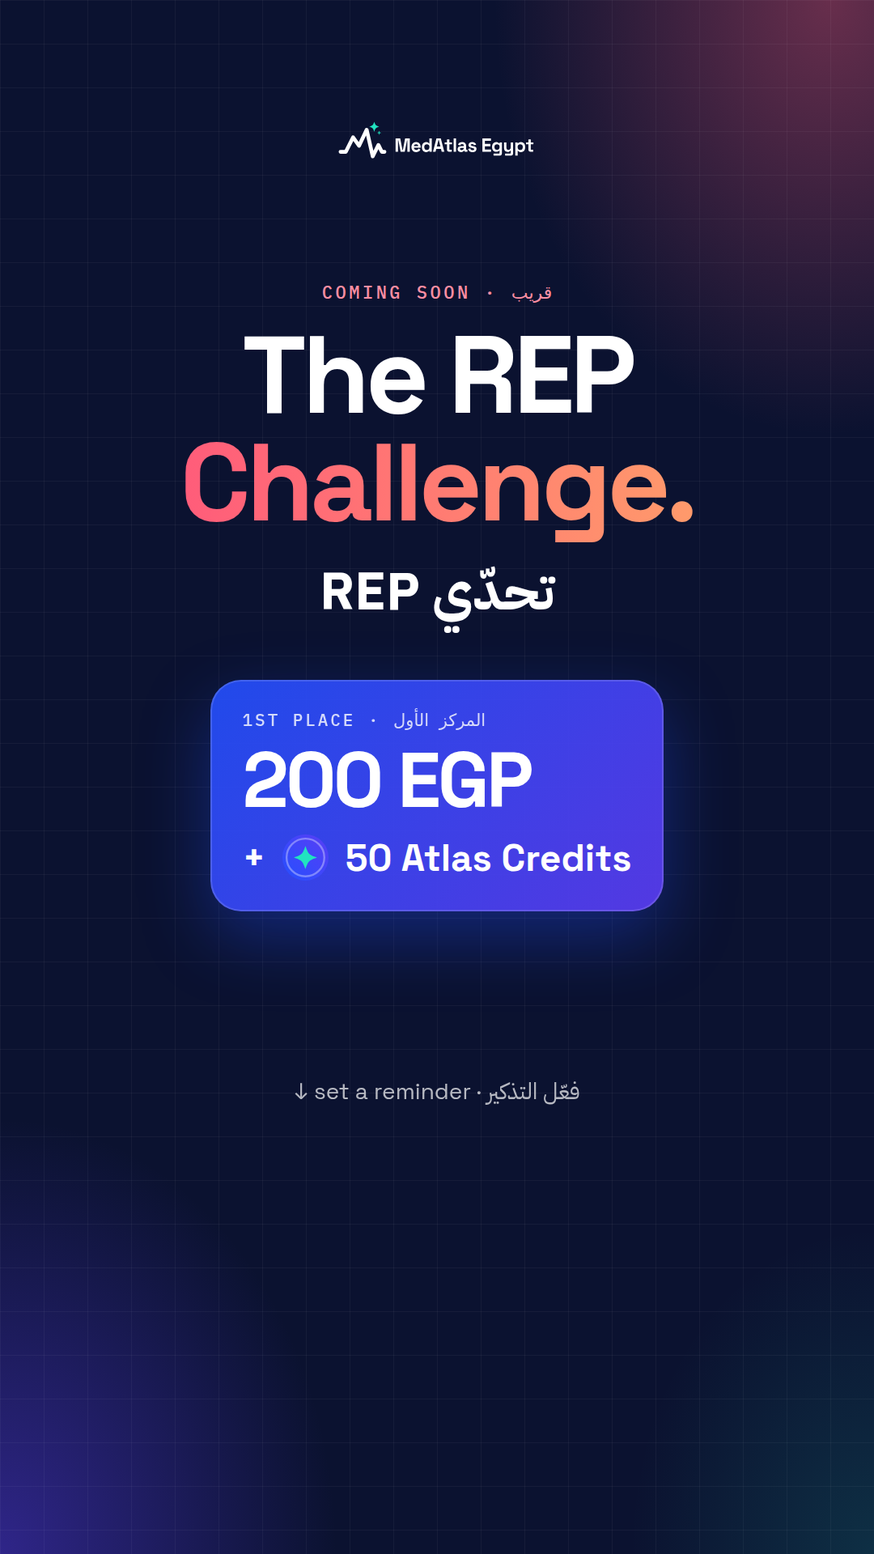
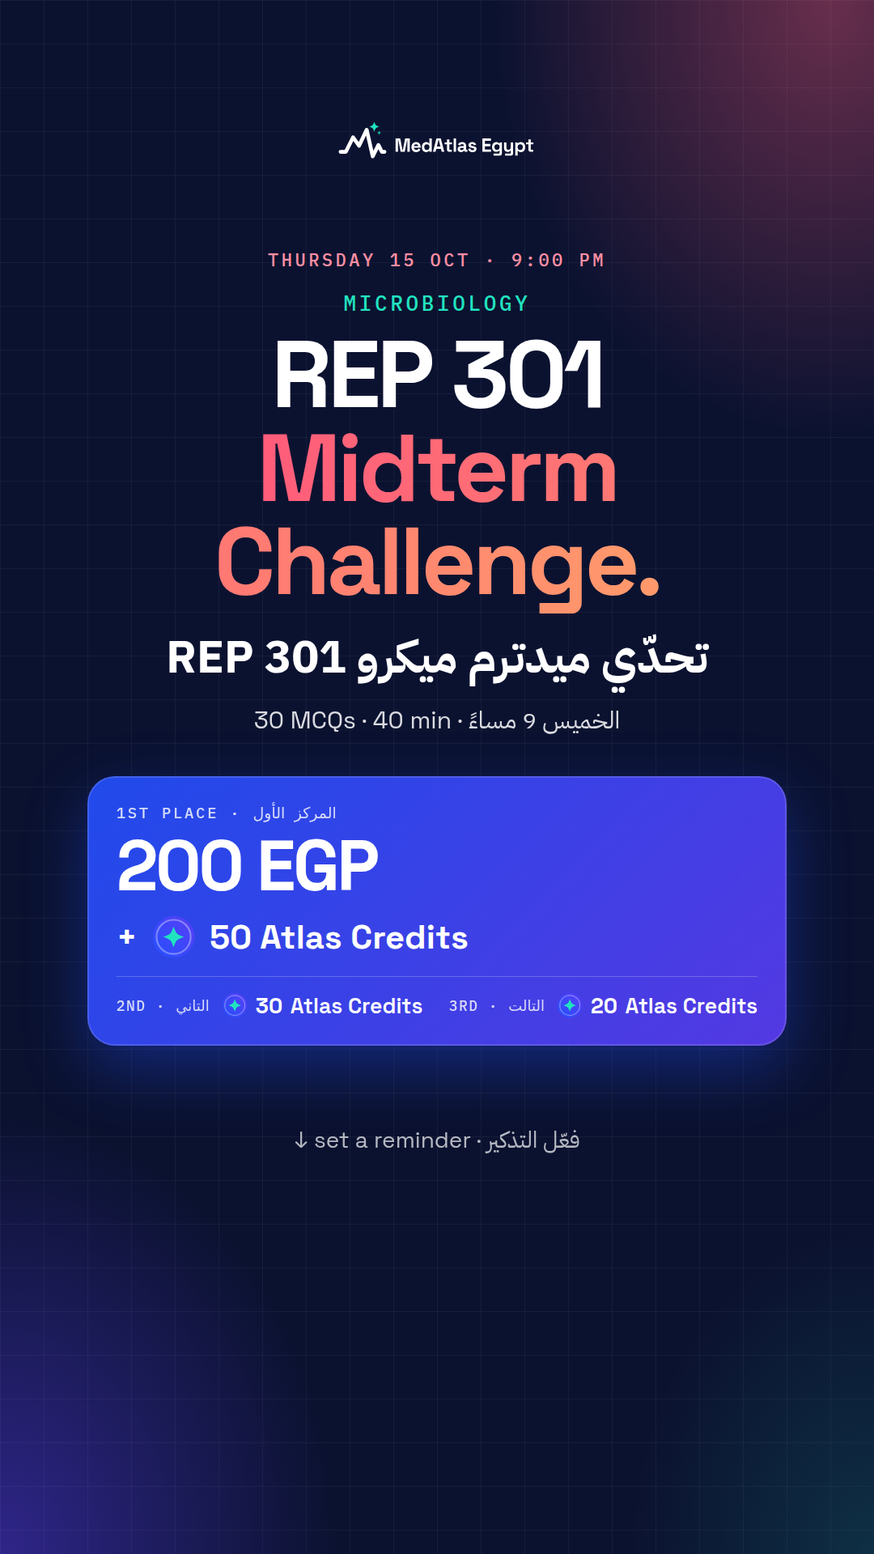
REP 301 Microbiology Midterm Challenge: final details (Thu 15 Oct, 30 MCQs/40 min, prizes, follow rule)

Changed region(s): [[0.0611, 0.1562, 0.9167, 0.75]]

diff --git a/_source/rep-challenge/story-comp-rules.html b/_source/rep-challenge/story-comp-rules.html
@@ -1,9 +1,12 @@
-<!doctype html><html><head><meta charset="utf-8"><link rel="stylesheet" href="../comp.css"><style>:root{--w:1080px;--h:1920px}.frame{padding:130px 84px 200px}</style></head><body><div class="frame">
+<!doctype html><html><head><meta charset="utf-8"><link rel="stylesheet" href="../comp.css"><style>:root{--w:1080px;--h:1920px}.frame{padding:120px 84px 190px}.rule{padding:20px 0}.rule .en{font-size:34px}.rule .arx{font-size:28px}</style></head><body><div class="frame">
   <div class="top"><img src="../../../logo/final/svg/medatlas-logo-horizontal-reversed.svg" alt=""><span class="chip rep-c">Rules · القواعد</span></div>
-  <div style="margin-top:60px"><span class="label">The REP Challenge</span></div>
-  <div class="h1" style="--h1:104px;margin-top:18px">How it <span class="rep">works</span></div>
-  <div class="ar-line" style="margin-top:6px;font-size:52px">إزاي تشارك</div>
-  <div style="margin-top:34px"><div class="rule"><div class="n">1</div><div><div class="en">Sign up on MedAtlas, free</div><div class="arx">سجّل على MedAtlas ببلاش</div></div></div><div class="rule"><div class="n">2</div><div><div class="en">Open the challenge on MedAtlas at the set time</div><div class="arx">افتح التحدي على MedAtlas في الميعاد</div></div></div><div class="rule"><div class="n">3</div><div><div class="en">Timed exam · one attempt only</div><div class="arx">امتحان بوقت، ومحاولة واحدة بس</div></div></div><div class="rule"><div class="n">4</div><div><div class="en">Highest score wins · tie? fastest wins</div><div class="arx">أعلى درجة تكسب، ولو في تعادل الأسرع يكسب</div></div></div><div class="rule"><div class="n">5</div><div><div class="en">Winner verified with university ID</div><div class="arx">هنتأكد من الفايز بالـ University ID</div></div></div><div class="rule"><div class="n">6</div><div><div class="en">Answers posted after it closes</div><div class="arx">الإجابات هتنزل بعد ما التحدي يقفل</div></div></div></div>
-  <div style="margin-top:10px"><div class="prize" style="zoom:0.9"><div class="k">1st place · المركز الأول</div><div class="v">200 EGP</div>
-  <div class="plus">+ <svg width="58" height="58" viewBox="0 0 128 128"><defs><linearGradient id="cgb" x1="0" y1="128" x2="128" y2="0" gradientUnits="userSpaceOnUse"><stop offset="0" stop-color="#2350FF"/><stop offset="1" stop-color="#5B3DF5"/></linearGradient></defs><circle cx="64" cy="64" r="60" fill="url(#cgb)"/><circle cx="64" cy="64" r="49" fill="none" stroke="#fff" stroke-opacity=".35" stroke-width="5"/><path d="M64 34 C72.1 55.9 72.1 55.9 94 64 C72.1 72.1 72.1 72.1 64 94 C55.9 72.1 55.9 72.1 34 64 C55.9 55.9 55.9 55.9 64 34 Z" fill="#21E3C0"/></svg> 50 Atlas Credits</div></div></div>
-  <div class="body" style="margin-top:26px;font-size:26px;opacity:.65">Only your first attempt counts · <span class="ar">أول محاولة بس اللي بتتحسب</span></div></div></body></html>
+  <div style="margin-top:44px"><span class="label">REP 301 Microbiology Midterm Challenge</span></div>
+  <div class="h1" style="--h1:96px;margin-top:16px">How it <span class="rep">works</span></div>
+  <div class="ar-line" style="margin-top:4px;font-size:48px">إزاي تشارك</div>
+  <div style="margin-top:22px"><div class="rule"><div class="n">1</div><div><div class="en">Follow @medatlas_eg on Instagram and join our WhatsApp Channel</div><div class="arx">تابعنا على إنستجرام وانضم لقناة الواتساب</div></div></div><div class="rule"><div class="n">2</div><div><div class="en">Sign up on MedAtlas, free</div><div class="arx">سجّل على MedAtlas ببلاش</div></div></div><div class="rule"><div class="n">3</div><div><div class="en">Thu 15 Oct · opens 9:00 PM · last entry 9:15 PM</div><div class="arx">الخميس 15 أكتوبر: يفتح 9:00 م، وآخر دخول 9:15 م</div></div></div><div class="rule"><div class="n">4</div><div><div class="en">30 MCQs (cases included) · 40 min · 1 attempt</div><div class="arx">30 سؤال منهم حالات مرضية، 40 دقيقة، ومحاولة واحدة</div></div></div><div class="rule"><div class="n">5</div><div><div class="en">Highest score wins · tie? fastest wins</div><div class="arx">أعلى درجة تكسب، ولو في تعادل الأسرع يكسب</div></div></div><div class="rule"><div class="n">6</div><div><div class="en">Winners checked by university ID + Instagram, announced Fri 16 Oct, 8 PM</div><div class="arx">هنتأكد من الفايزين ونعلنهم الجمعة 16 أكتوبر 8 م، مع الإجابات</div></div></div></div>
+  <div style="margin-top:8px"><div class="prize" style="zoom:0.8">
+  <div class="k">1st place · المركز الأول</div><div class="v">200 EGP</div>
+  <div class="plus">+ <svg width="58" height="58" viewBox="0 0 128 128"><defs><linearGradient id="cg4" x1="0" y1="128" x2="128" y2="0" gradientUnits="userSpaceOnUse"><stop offset="0" stop-color="#2350FF"/><stop offset="1" stop-color="#5B3DF5"/></linearGradient></defs><circle cx="64" cy="64" r="60" fill="url(#cg4)"/><circle cx="64" cy="64" r="49" fill="none" stroke="#fff" stroke-opacity=".35" stroke-width="5"/><path d="M64 34 C72.1 55.9 72.1 55.9 94 64 C72.1 72.1 72.1 72.1 64 94 C55.9 72.1 55.9 72.1 34 64 C55.9 55.9 55.9 55.9 64 34 Z" fill="#21E3C0"/></svg> 50 Atlas Credits</div>
+  <div class="runners"><div><span class="pl">2nd · التاني</span><svg width="34" height="34" viewBox="0 0 128 128"><defs><linearGradient id="cg5" x1="0" y1="128" x2="128" y2="0" gradientUnits="userSpaceOnUse"><stop offset="0" stop-color="#2350FF"/><stop offset="1" stop-color="#5B3DF5"/></linearGradient></defs><circle cx="64" cy="64" r="60" fill="url(#cg5)"/><circle cx="64" cy="64" r="49" fill="none" stroke="#fff" stroke-opacity=".35" stroke-width="5"/><path d="M64 34 C72.1 55.9 72.1 55.9 94 64 C72.1 72.1 72.1 72.1 64 94 C55.9 72.1 55.9 72.1 34 64 C55.9 55.9 55.9 55.9 64 34 Z" fill="#21E3C0"/></svg><b>30</b> Atlas Credits</div><div><span class="pl">3rd · التالت</span><svg width="34" height="34" viewBox="0 0 128 128"><defs><linearGradient id="cg6" x1="0" y1="128" x2="128" y2="0" gradientUnits="userSpaceOnUse"><stop offset="0" stop-color="#2350FF"/><stop offset="1" stop-color="#5B3DF5"/></linearGradient></defs><circle cx="64" cy="64" r="60" fill="url(#cg6)"/><circle cx="64" cy="64" r="49" fill="none" stroke="#fff" stroke-opacity=".35" stroke-width="5"/><path d="M64 34 C72.1 55.9 72.1 55.9 94 64 C72.1 72.1 72.1 72.1 64 94 C55.9 72.1 55.9 72.1 34 64 C55.9 55.9 55.9 55.9 64 34 Z" fill="#21E3C0"/></svg><b>20</b> Atlas Credits</div></div>
+</div></div>
+  <div class="body" style="margin-top:20px;font-size:25px;opacity:.65">Only your first attempt counts · <span class="ar">أول محاولة بس اللي بتتحسب</span></div></div></body></html>

diff --git a/_source/rep-challenge/post-comp-rep-challenge.html b/_source/rep-challenge/post-comp-rep-challenge.html
@@ -1,13 +1,16 @@
-<!doctype html><html><head><meta charset="utf-8"><link rel="stylesheet" href="../comp.css"><style>:root{--w:1080px;--h:1350px}.fact{padding:18px 24px}.facts{margin-bottom:34px}</style></head><body><div class="frame">
-  <div class="top"><img src="../../../logo/final/svg/medatlas-logo-horizontal-reversed.svg" alt=""><span class="chip rep-c">REP · Competition</span></div>
-  <div style="margin-top:34px"><span class="label">New · مسابقة جديدة</span></div>
-  <div class="h1" style="margin-top:20px">The REP<br><span class="rep">Challenge.</span></div>
-  <div class="ar-line" style="margin-top:12px;font-size:56px">تحدّي REP</div>
-  <div class="body" style="margin-top:14px;max-width:880px">A timed exam on the REP lectures. Highest score wins. <span class="ar">امتحان بوقت على محاضرات الـ REP، وأعلى درجة تكسب.</span></div>
-  <div style="margin-top:26px"><div class="prize" style="zoom:1"><div class="k">1st place · المركز الأول</div><div class="v">200 EGP</div>
-  <div class="plus">+ <svg width="58" height="58" viewBox="0 0 128 128"><defs><linearGradient id="cga" x1="0" y1="128" x2="128" y2="0" gradientUnits="userSpaceOnUse"><stop offset="0" stop-color="#2350FF"/><stop offset="1" stop-color="#5B3DF5"/></linearGradient></defs><circle cx="64" cy="64" r="60" fill="url(#cga)"/><circle cx="64" cy="64" r="49" fill="none" stroke="#fff" stroke-opacity=".35" stroke-width="5"/><path d="M64 34 C72.1 55.9 72.1 55.9 94 64 C72.1 72.1 72.1 72.1 64 94 C55.9 72.1 55.9 72.1 34 64 C55.9 55.9 55.9 55.9 64 34 Z" fill="#21E3C0"/></svg> 50 Atlas Credits</div></div></div>
-  <div class="facts" style="margin-top:22px">
-    <div class="fact"><b>Timed exam</b><span class="ar">امتحان بوقت محدد</span></div>
-    <div class="fact"><b>One attempt</b><span class="ar">محاولة واحدة بس</span></div><div class="fact"><b>REP lectures</b><span class="ar">على محاضرات الـ REP</span></div><div class="fact"><b>On MedAtlas</b><span class="ar">جوّه الموقع</span></div>
+<!doctype html><html><head><meta charset="utf-8"><link rel="stylesheet" href="../comp.css"><style>:root{--w:1080px;--h:1350px}.fact{padding:16px 24px}.fact b{font-size:31px}</style></head><body><div class="frame">
+  <div class="top"><img src="../../../logo/final/svg/medatlas-logo-horizontal-reversed.svg" alt=""><span class="chip rep-c">Thu 15 Oct · 9 PM</span></div>
+  <div style="margin-top:34px"><span class="label">New competition · مسابقة جديدة</span></div>
+  <div class="h1" style="--h1:96px;margin-top:18px"><span class="sub">Microbiology</span>REP 301<br><span class="rep">Midterm Challenge.</span></div>
+  <div class="ar-line" style="margin-top:10px;font-size:48px">تحدّي ميدترم ميكرو REP 301</div>
+  <div class="body" style="margin-top:8px;font-size:29px">30 MCQs (cases included) on the 2 REP lectures.</div>
+  <div style="margin-top:22px"><div class="prize" style="zoom:0.86">
+  <div class="k">1st place · المركز الأول</div><div class="v">200 EGP</div>
+  <div class="plus">+ <svg width="58" height="58" viewBox="0 0 128 128"><defs><linearGradient id="cg1" x1="0" y1="128" x2="128" y2="0" gradientUnits="userSpaceOnUse"><stop offset="0" stop-color="#2350FF"/><stop offset="1" stop-color="#5B3DF5"/></linearGradient></defs><circle cx="64" cy="64" r="60" fill="url(#cg1)"/><circle cx="64" cy="64" r="49" fill="none" stroke="#fff" stroke-opacity=".35" stroke-width="5"/><path d="M64 34 C72.1 55.9 72.1 55.9 94 64 C72.1 72.1 72.1 72.1 64 94 C55.9 72.1 55.9 72.1 34 64 C55.9 55.9 55.9 55.9 64 34 Z" fill="#21E3C0"/></svg> 50 Atlas Credits</div>
+  <div class="runners"><div><span class="pl">2nd · التاني</span><svg width="34" height="34" viewBox="0 0 128 128"><defs><linearGradient id="cg2" x1="0" y1="128" x2="128" y2="0" gradientUnits="userSpaceOnUse"><stop offset="0" stop-color="#2350FF"/><stop offset="1" stop-color="#5B3DF5"/></linearGradient></defs><circle cx="64" cy="64" r="60" fill="url(#cg2)"/><circle cx="64" cy="64" r="49" fill="none" stroke="#fff" stroke-opacity=".35" stroke-width="5"/><path d="M64 34 C72.1 55.9 72.1 55.9 94 64 C72.1 72.1 72.1 72.1 64 94 C55.9 72.1 55.9 72.1 34 64 C55.9 55.9 55.9 55.9 64 34 Z" fill="#21E3C0"/></svg><b>30</b> Atlas Credits</div><div><span class="pl">3rd · التالت</span><svg width="34" height="34" viewBox="0 0 128 128"><defs><linearGradient id="cg3" x1="0" y1="128" x2="128" y2="0" gradientUnits="userSpaceOnUse"><stop offset="0" stop-color="#2350FF"/><stop offset="1" stop-color="#5B3DF5"/></linearGradient></defs><circle cx="64" cy="64" r="60" fill="url(#cg3)"/><circle cx="64" cy="64" r="49" fill="none" stroke="#fff" stroke-opacity=".35" stroke-width="5"/><path d="M64 34 C72.1 55.9 72.1 55.9 94 64 C72.1 72.1 72.1 72.1 64 94 C55.9 72.1 55.9 72.1 34 64 C55.9 55.9 55.9 55.9 64 34 Z" fill="#21E3C0"/></svg><b>20</b> Atlas Credits</div></div>
+</div></div>
+  <div class="facts" style="margin-top:18px">
+    <div class="fact"><b>Thu 15 Oct · 9 PM</b><span class="ar">الخميس 15 أكتوبر، 9 مساءً</span></div>
+    <div class="fact"><b>30 MCQs · 40 min</b><span class="ar">30 سؤال في 40 دقيقة</span></div>
   </div>
-  <div class="bottom"><span>@medatlas_eg</span><span>date soon · الميعاد قريب</span></div></div></body></html>
+  <div class="bottom"><span>@medatlas_eg</span><span>rules in stories · القواعد في الستوري</span></div></div></body></html>

diff --git a/_source/rep-challenge/story-comp-countdown.html b/_source/rep-challenge/story-comp-countdown.html
@@ -1,10 +1,14 @@
-<!doctype html><html><head><meta charset="utf-8"><link rel="stylesheet" href="../comp.css"><style>:root{--w:1080px;--h:1920px}.frame{padding:150px 84px 220px}</style></head><body><div class="frame">
+<!doctype html><html><head><meta charset="utf-8"><link rel="stylesheet" href="../comp.css"><style>:root{--w:1080px;--h:1920px}.frame{padding:150px 84px 200px}.h1 .sub{justify-content:center}</style></head><body><div class="frame">
   <div class="top" style="justify-content:center"><img src="../../../logo/final/svg/medatlas-logo-horizontal-reversed.svg" alt=""></div>
-  <div style="margin-top:150px;text-align:center"><span class="label">Coming soon · قريب</span>
-  <div class="h1" style="--h1:136px;margin-top:22px">The REP<br><span class="rep">Challenge.</span></div>
-  <div class="ar" style="font-weight:700;font-size:64px;margin-top:20px">تحدّي REP</div></div>
-  <div style="margin:60px auto 0"><div class="prize" style="zoom:1.05"><div class="k">1st place · المركز الأول</div><div class="v">200 EGP</div>
-  <div class="plus">+ <svg width="58" height="58" viewBox="0 0 128 128"><defs><linearGradient id="cgc" x1="0" y1="128" x2="128" y2="0" gradientUnits="userSpaceOnUse"><stop offset="0" stop-color="#2350FF"/><stop offset="1" stop-color="#5B3DF5"/></linearGradient></defs><circle cx="64" cy="64" r="60" fill="url(#cgc)"/><circle cx="64" cy="64" r="49" fill="none" stroke="#fff" stroke-opacity=".35" stroke-width="5"/><path d="M64 34 C72.1 55.9 72.1 55.9 94 64 C72.1 72.1 72.1 72.1 64 94 C55.9 72.1 55.9 72.1 34 64 C55.9 55.9 55.9 55.9 64 34 Z" fill="#21E3C0"/></svg> 50 Atlas Credits</div></div></div>
+  <div style="margin-top:110px;text-align:center"><span class="label">Thursday 15 Oct · 9:00 PM</span>
+  <div class="h1" style="--h1:118px;margin-top:22px"><span class="sub">Microbiology</span>REP 301<br><span class="rep">Midterm Challenge.</span></div>
+  <div class="ar" style="font-weight:700;font-size:56px;margin-top:18px">تحدّي ميدترم ميكرو REP 301</div>
+  <div class="body" style="margin-top:14px;font-size:30px">30 MCQs · 40 min · <span class="ar">الخميس 9 مساءً</span></div></div>
+  <div style="margin:48px auto 0"><div class="prize" style="zoom:0.95">
+  <div class="k">1st place · المركز الأول</div><div class="v">200 EGP</div>
+  <div class="plus">+ <svg width="58" height="58" viewBox="0 0 128 128"><defs><linearGradient id="cg7" x1="0" y1="128" x2="128" y2="0" gradientUnits="userSpaceOnUse"><stop offset="0" stop-color="#2350FF"/><stop offset="1" stop-color="#5B3DF5"/></linearGradient></defs><circle cx="64" cy="64" r="60" fill="url(#cg7)"/><circle cx="64" cy="64" r="49" fill="none" stroke="#fff" stroke-opacity=".35" stroke-width="5"/><path d="M64 34 C72.1 55.9 72.1 55.9 94 64 C72.1 72.1 72.1 72.1 64 94 C55.9 72.1 55.9 72.1 34 64 C55.9 55.9 55.9 55.9 64 34 Z" fill="#21E3C0"/></svg> 50 Atlas Credits</div>
+  <div class="runners"><div><span class="pl">2nd · التاني</span><svg width="34" height="34" viewBox="0 0 128 128"><defs><linearGradient id="cg8" x1="0" y1="128" x2="128" y2="0" gradientUnits="userSpaceOnUse"><stop offset="0" stop-color="#2350FF"/><stop offset="1" stop-color="#5B3DF5"/></linearGradient></defs><circle cx="64" cy="64" r="60" fill="url(#cg8)"/><circle cx="64" cy="64" r="49" fill="none" stroke="#fff" stroke-opacity=".35" stroke-width="5"/><path d="M64 34 C72.1 55.9 72.1 55.9 94 64 C72.1 72.1 72.1 72.1 64 94 C55.9 72.1 55.9 72.1 34 64 C55.9 55.9 55.9 55.9 64 34 Z" fill="#21E3C0"/></svg><b>30</b> Atlas Credits</div><div><span class="pl">3rd · التالت</span><svg width="34" height="34" viewBox="0 0 128 128"><defs><linearGradient id="cg9" x1="0" y1="128" x2="128" y2="0" gradientUnits="userSpaceOnUse"><stop offset="0" stop-color="#2350FF"/><stop offset="1" stop-color="#5B3DF5"/></linearGradient></defs><circle cx="64" cy="64" r="60" fill="url(#cg9)"/><circle cx="64" cy="64" r="49" fill="none" stroke="#fff" stroke-opacity=".35" stroke-width="5"/><path d="M64 34 C72.1 55.9 72.1 55.9 94 64 C72.1 72.1 72.1 72.1 64 94 C55.9 72.1 55.9 72.1 34 64 C55.9 55.9 55.9 55.9 64 34 Z" fill="#21E3C0"/></svg><b>20</b> Atlas Credits</div></div>
+</div></div>
   <div style="flex:1"></div>
   <div class="body" style="text-align:center;font-size:28px;opacity:.7">↓ set a reminder · <span class="ar">فعّل التذكير</span></div>
-  <div style="height:330px"></div></div></body></html>
+  <div style="height:290px"></div></div></body></html>

diff --git a/_source/rep-challenge/comp.css b/_source/rep-challenge/comp.css
@@ -35,3 +35,7 @@ body::after { content: ""; position: absolute; inset: 0; background-size: 54px 5
 .rule .n { flex: none; width: 64px; height: 64px; border-radius: 50%; display: grid; place-items: center; font: 700 30px "Space Grotesk"; background: rgba(255,92,122,.16); color: #FF8FA3; border: 2px solid rgba(255,92,122,.45); }
 .rule .en { font-weight: 700; font-size: 38px; letter-spacing: -.015em; line-height: 1.2; }
 .rule .arx { font-family: "IBM Plex Sans Arabic"; font-weight: 500; direction: rtl; text-align: left; font-size: 30px; opacity: .75; margin-top: 4px; }
+.h1 .sub { display: flex; font: 500 26px "IBM Plex Mono"; letter-spacing: .14em; text-transform: uppercase; color: #21E3C0; margin-bottom: 14px; }
+.prize .runners { display: flex; gap: 34px; margin-top: 22px; padding-top: 20px; border-top: 1.5px solid rgba(255,255,255,.22); font-weight: 600; font-size: 28px; }
+.prize .runners div { display: flex; align-items: center; gap: 10px; }
+.prize .runners .pl { font: 500 19px "IBM Plex Mono"; letter-spacing: .08em; text-transform: uppercase; opacity: .8; margin-right: 6px; }

diff --git a/_source/rep-challenge/comp_build.py b/_source/rep-challenge/comp_build.py
@@ -1,0 +1,82 @@
+"""REP 301 Microbiology Midterm Challenge: announcement post, rules story, countdown story."""
+import os
+
+HERE = os.path.dirname(os.path.abspath(__file__))
+_n = [0]
+
+
+def coin(s):
+    _n[0] += 1
+    u = _n[0]
+    return (f'<svg width="{s}" height="{s}" viewBox="0 0 128 128"><defs><linearGradient id="cg{u}" x1="0" y1="128" x2="128" y2="0" gradientUnits="userSpaceOnUse">'
+            f'<stop offset="0" stop-color="#2350FF"/><stop offset="1" stop-color="#5B3DF5"/></linearGradient></defs><circle cx="64" cy="64" r="60" fill="url(#cg{u})"/>'
+            f'<circle cx="64" cy="64" r="49" fill="none" stroke="#fff" stroke-opacity=".35" stroke-width="5"/>'
+            f'<path d="M64 34 C72.1 55.9 72.1 55.9 94 64 C72.1 72.1 72.1 72.1 64 94 C55.9 72.1 55.9 72.1 34 64 C55.9 55.9 55.9 55.9 64 34 Z" fill="#21E3C0"/></svg>')
+
+
+LOGO = '<img src="../../../logo/final/svg/medatlas-logo-horizontal-reversed.svg" alt="">'
+
+
+def prize(zoom=1.0):
+    return f'''<div class="prize" style="zoom:{zoom}">
+  <div class="k">1st place · المركز الأول</div><div class="v">200 EGP</div>
+  <div class="plus">+ {coin(58)} 50 Atlas Credits</div>
+  <div class="runners"><div><span class="pl">2nd · التاني</span>{coin(34)}<b>30</b> Atlas Credits</div><div><span class="pl">3rd · التالت</span>{coin(34)}<b>20</b> Atlas Credits</div></div>
+</div>'''
+
+
+def page(name, w, h, body, css=""):
+    with open(os.path.join(HERE, "html", f"{name}.html"), "w") as f:
+        f.write(f'<!doctype html><html><head><meta charset="utf-8"><link rel="stylesheet" href="../comp.css">'
+                f'<style>:root{{--w:{w}px;--h:{h}px}}{css}</style></head><body><div class="frame">{body}</div></body></html>')
+
+
+TITLE = '<span class="sub">Microbiology</span>REP 301<br><span class="rep">Midterm Challenge.</span>'
+AR_TITLE = 'تحدّي ميدترم ميكرو REP 301'
+
+page("post-comp-rep-challenge", 1080, 1350, f'''
+  <div class="top">{LOGO}<span class="chip rep-c">Thu 15 Oct · 9 PM</span></div>
+  <div style="margin-top:34px"><span class="label">New competition · مسابقة جديدة</span></div>
+  <div class="h1" style="--h1:96px;margin-top:18px">{TITLE}</div>
+  <div class="ar-line" style="margin-top:10px;font-size:48px">{AR_TITLE}</div>
+  <div class="body" style="margin-top:8px;font-size:29px">30 MCQs (cases included) on the 2 REP lectures.</div>
+  <div style="margin-top:22px">{prize(.86)}</div>
+  <div class="facts" style="margin-top:18px">
+    <div class="fact"><b>Thu 15 Oct · 9 PM</b><span class="ar">الخميس 15 أكتوبر، 9 مساءً</span></div>
+    <div class="fact"><b>30 MCQs · 40 min</b><span class="ar">30 سؤال في 40 دقيقة</span></div>
+  </div>
+  <div class="bottom"><span>@medatlas_eg</span><span>rules in stories · القواعد في الستوري</span></div>''',
+     ".fact{padding:16px 24px}.fact b{font-size:31px}")
+
+rules = [
+    ("Follow @medatlas_eg on Instagram and join our WhatsApp Channel", "تابعنا على إنستجرام وانضم لقناة الواتساب"),
+    ("Sign up on MedAtlas, free", "سجّل على MedAtlas ببلاش"),
+    ("Thu 15 Oct · opens 9:00 PM · last entry 9:15 PM", "الخميس 15 أكتوبر: يفتح 9:00 م، وآخر دخول 9:15 م"),
+    ("30 MCQs (cases included) · 40 min · 1 attempt", "30 سؤال منهم حالات مرضية، 40 دقيقة، ومحاولة واحدة"),
+    ("Highest score wins · tie? fastest wins", "أعلى درجة تكسب، ولو في تعادل الأسرع يكسب"),
+    ("Winners checked by university ID + Instagram, announced Fri 16 Oct, 8 PM", "هنتأكد من الفايزين ونعلنهم الجمعة 16 أكتوبر 8 م، مع الإجابات"),
+]
+rl = "".join(f'<div class="rule"><div class="n">{i}</div><div><div class="en">{en}</div><div class="arx">{ar}</div></div></div>'
+             for i, (en, ar) in enumerate(rules, 1))
+page("story-comp-rules", 1080, 1920, f'''
+  <div class="top">{LOGO}<span class="chip rep-c">Rules · القواعد</span></div>
+  <div style="margin-top:44px"><span class="label">REP 301 Microbiology Midterm Challenge</span></div>
+  <div class="h1" style="--h1:96px;margin-top:16px">How it <span class="rep">works</span></div>
+  <div class="ar-line" style="margin-top:4px;font-size:48px">إزاي تشارك</div>
+  <div style="margin-top:22px">{rl}</div>
+  <div style="margin-top:8px">{prize(.8)}</div>
+  <div class="body" style="margin-top:20px;font-size:25px;opacity:.65">Only your first attempt counts · <span class="ar">أول محاولة بس اللي بتتحسب</span></div>''',
+     ".frame{padding:120px 84px 190px}.rule{padding:20px 0}.rule .en{font-size:34px}.rule .arx{font-size:28px}")
+
+page("story-comp-countdown", 1080, 1920, f'''
+  <div class="top" style="justify-content:center">{LOGO}</div>
+  <div style="margin-top:110px;text-align:center"><span class="label">Thursday 15 Oct · 9:00 PM</span>
+  <div class="h1" style="--h1:118px;margin-top:22px">{TITLE}</div>
+  <div class="ar" style="font-weight:700;font-size:56px;margin-top:18px">{AR_TITLE}</div>
+  <div class="body" style="margin-top:14px;font-size:30px">30 MCQs · 40 min · <span class="ar">الخميس 9 مساءً</span></div></div>
+  <div style="margin:48px auto 0">{prize(.95)}</div>
+  <div style="flex:1"></div>
+  <div class="body" style="text-align:center;font-size:28px;opacity:.7">↓ set a reminder · <span class="ar">فعّل التذكير</span></div>
+  <div style="height:290px"></div>''',
+     ".frame{padding:150px 84px 200px}.h1 .sub{justify-content:center}")
+print("ok")
